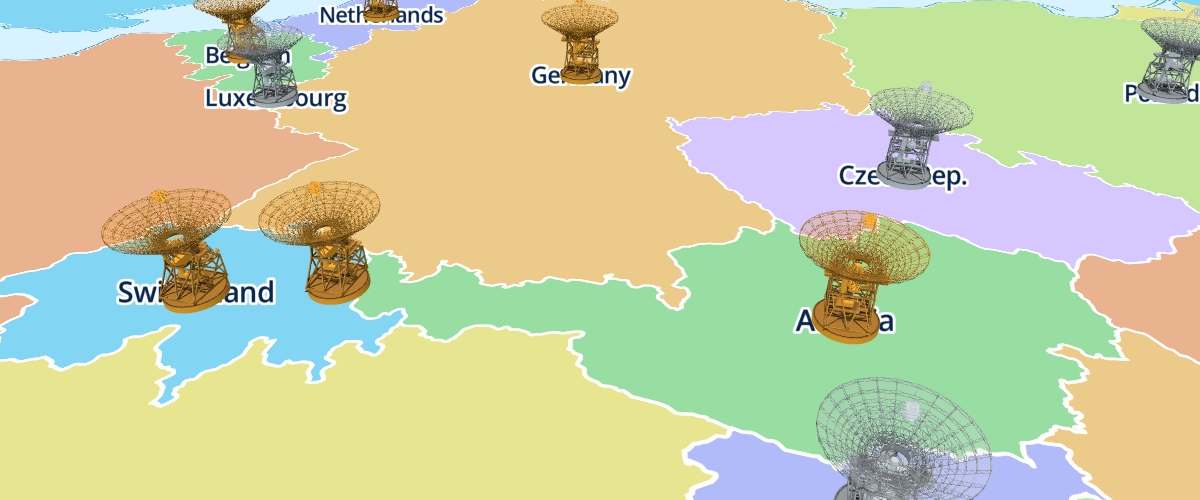
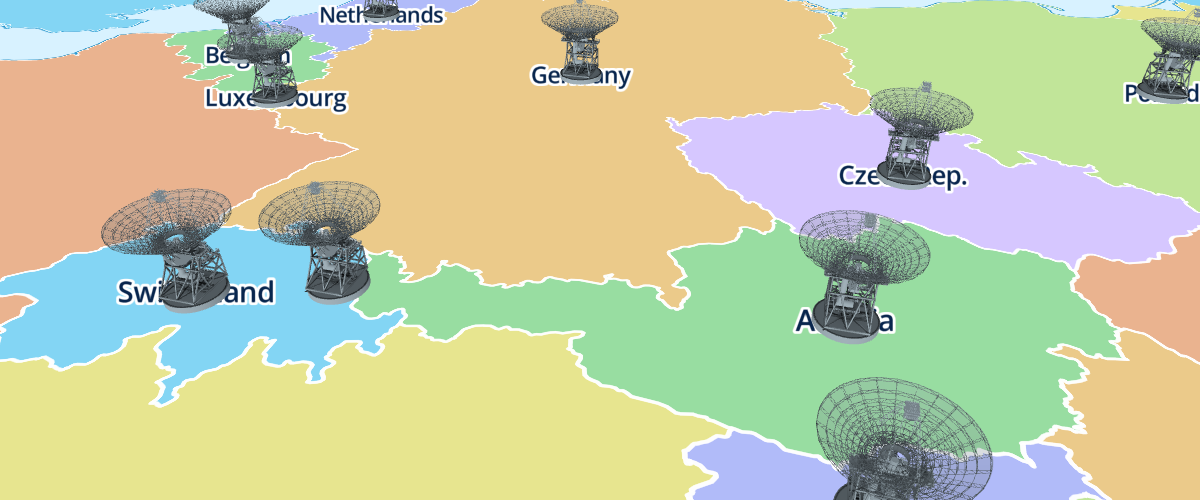
docs: simplify custom layer tile example

diff --git a/test/examples/use-vector-tile-data-in-a-custom-layer.html b/test/examples/use-vector-tile-data-in-a-custom-layer.html
@@ -2,7 +2,7 @@
 <html lang="en">
 <head>
     <title>Use vector tile data in a custom layer</title>
-    <meta property="og:description" content="Bind a vector source to a custom layer and turn its visible tile features into instanced 3D models." />
+    <meta property="og:description" content="Use visible vector tile features to place instances of a GLTF model." />
     <meta property="og:category" content="3D Models & Buildings" />
     <meta property="og:created" content="2026-07-12" />
     <meta charset="utf-8">
@@ -40,46 +40,37 @@
         canvasContextAttributes: {antialias: true}
     });
 
+    const maxModels = 500;
     const modelLayer = {
         id: 'custom-country-models',
         type: 'custom',
         renderingMode: '3d',
         source: 'maplibre',
         'source-layer': 'centroids',
-        tileModels: new Map(),
 
         onAdd(map, gl) {
-            this.map = map;
             this.camera = new THREE.Camera();
             this.scene = new THREE.Scene();
-
             this.scene.add(new THREE.HemisphereLight(0xdff4ff, 0x293241, 2.5));
-            const sunlight = new THREE.DirectionalLight(0xffffff, 3);
-            sunlight.position.set(-1, -2, 3);
-            this.scene.add(sunlight);
 
-            // This is the same model used by the "Add a 3D model using three.js" example.
             new GLTFLoader().load(
                 'https://maplibre.org/maplibre-gl-js/docs/assets/34M_17/34M_17.gltf',
                 (gltf) => {
                     gltf.scene.updateMatrixWorld(true);
-                    this.modelParts = [];
-                    this.oddMaterials = new Map();
+                    this.modelMeshes = [];
+                    const rotation = new THREE.Matrix4().makeRotationX(Math.PI / 2);
                     gltf.scene.traverse((object) => {
                         if (!object.isMesh) return;
-                        if (!this.oddMaterials.has(object.material)) {
-                            const oddMaterial = object.material.clone();
-                            oddMaterial.color.set(0xffa62b);
-                            this.oddMaterials.set(object.material, oddMaterial);
-                        }
-                        this.modelParts.push({
-                            geometry: object.geometry,
-                            evenMaterial: object.material,
-                            oddMaterial: this.oddMaterials.get(object.material),
-                            matrix: object.matrixWorld.clone()
+                        const mesh = new THREE.InstancedMesh(object.geometry, object.material, maxModels);
+                        mesh.frustumCulled = false;
+                        mesh.count = 0;
+                        this.scene.add(mesh);
+                        this.modelMeshes.push({
+                            mesh,
+                            modelMatrix: new THREE.Matrix4().multiplyMatrices(rotation, object.matrixWorld)
                         });
                     });
-                    this.map.triggerRepaint();
+                    map.triggerRepaint();
                 }
             );
 
@@ -91,82 +82,53 @@
             this.renderer.autoClear = false;
         },
 
-        createTileModels(features, tileID) {
-            const group = new THREE.Group();
-            const rotation = new THREE.Matrix4().makeRotationX(Math.PI / 2);
-            const tileCount = 2 ** tileID.canonical.z;
-            const matrices = {even: [], odd: []};
+        render(_gl, {tiles, defaultProjectionData}) {
+            if (!this.modelMeshes) return;
 
-            for (let index = 0; index < features.length; index++) {
-                const feature = features.feature(index);
-                if (feature.type !== 1) continue;
-                const countryName = String(feature.properties.NAME ?? '');
-                const parity = countryName.length % 2 === 0 ? 'even' : 'odd';
+            const matrices = [];
 
-                for (const pointGeometry of feature.loadGeometry()) {
-                    const point = pointGeometry[0];
-                    const mercator = new maplibregl.MercatorCoordinate(
-                        (tileID.canonical.x + point.x / feature.extent) / tileCount + (tileID.wrap ?? 0),
-                        (tileID.canonical.y + point.y / feature.extent) / tileCount
-                    );
-                    // Enlarge the real-world model so it remains legible at this continental zoom.
-                    const scale = mercator.meterInMercatorCoordinateUnits() * 2500;
-                    const matrix = new THREE.Matrix4()
-                        .makeTranslation(mercator.x, mercator.y, mercator.z)
-                        .scale(new THREE.Vector3(scale, -scale, scale))
-                        .multiply(rotation);
-                    matrices[parity].push(matrix);
-                }
-            }
+            for (const {tileID, data} of tiles) {
+                const tileCount = 2 ** tileID.canonical.z;
+                for (let index = 0; index < data.features.length; index++) {
+                    const feature = data.features.feature(index);
+                    if (feature.type !== 1) continue;
 
-            for (const parity of ['even', 'odd']) {
-                if (matrices[parity].length === 0) continue;
-                for (const part of this.modelParts) {
-                    const material = parity === 'even' ? part.evenMaterial : part.oddMaterial;
-                    const mesh = new THREE.InstancedMesh(part.geometry, material, matrices[parity].length);
-                    for (let index = 0; index < matrices[parity].length; index++) {
-                        mesh.setMatrixAt(index, matrices[parity][index].clone().multiply(part.matrix));
+                    for (const geometry of feature.loadGeometry()) {
+                        const point = geometry[0];
+                        const mercator = new maplibregl.MercatorCoordinate(
+                            (tileID.canonical.x + point.x / feature.extent) / tileCount + (tileID.wrap ?? 0),
+                            (tileID.canonical.y + point.y / feature.extent) / tileCount
+                        );
+                        const scale = mercator.meterInMercatorCoordinateUnits() * 2500;
+                        matrices.push(new THREE.Matrix4()
+                            .makeTranslation(mercator.x, mercator.y, mercator.z)
+                            .scale(new THREE.Vector3(scale, -scale, scale))
+                        );
                     }
-                    mesh.instanceMatrix.needsUpdate = true;
-                    group.add(mesh);
                 }
             }
 
-            return group;
-        },
-
-        render(_gl, {defaultProjectionData, tiles}) {
-            if (!this.modelParts) return;
-
-            const visibleFeatureLayers = new Set();
-
-            for (const tile of tiles) {
-                if (tile.data.type !== 'vector') continue;
-                const features = tile.data.features;
-                visibleFeatureLayers.add(features);
-
-                let group = this.tileModels.get(features);
-                if (!group) {
-                    group = this.createTileModels(features, tile.tileID);
-                    this.tileModels.set(features, group);
-                    this.scene.add(group);
+            const instanceMatrix = new THREE.Matrix4();
+            for (const {mesh, modelMatrix} of this.modelMeshes) {
+                mesh.count = Math.min(matrices.length, maxModels);
+                for (let index = 0; index < mesh.count; index++) {
+                    mesh.setMatrixAt(index, instanceMatrix.multiplyMatrices(matrices[index], modelMatrix));
                 }
-            }
-
-            for (const [features, group] of this.tileModels) {
-                if (visibleFeatureLayers.has(features)) continue;
-                this.scene.remove(group);
-                this.tileModels.delete(features);
+                mesh.instanceMatrix.needsUpdate = true;
             }
 
             this.camera.projectionMatrix.fromArray(defaultProjectionData.mainMatrix);
             this.renderer.resetState();
             this.renderer.render(this.scene, this.camera);
-
         },
 
         onRemove() {
-            for (const material of this.oddMaterials?.values() ?? []) material.dispose();
+            for (const {mesh} of this.modelMeshes ?? []) {
+                mesh.geometry.dispose();
+                for (const material of Array.isArray(mesh.material) ? mesh.material : [mesh.material]) {
+                    material.dispose();
+                }
+            }
             this.renderer.dispose();
         }
     };